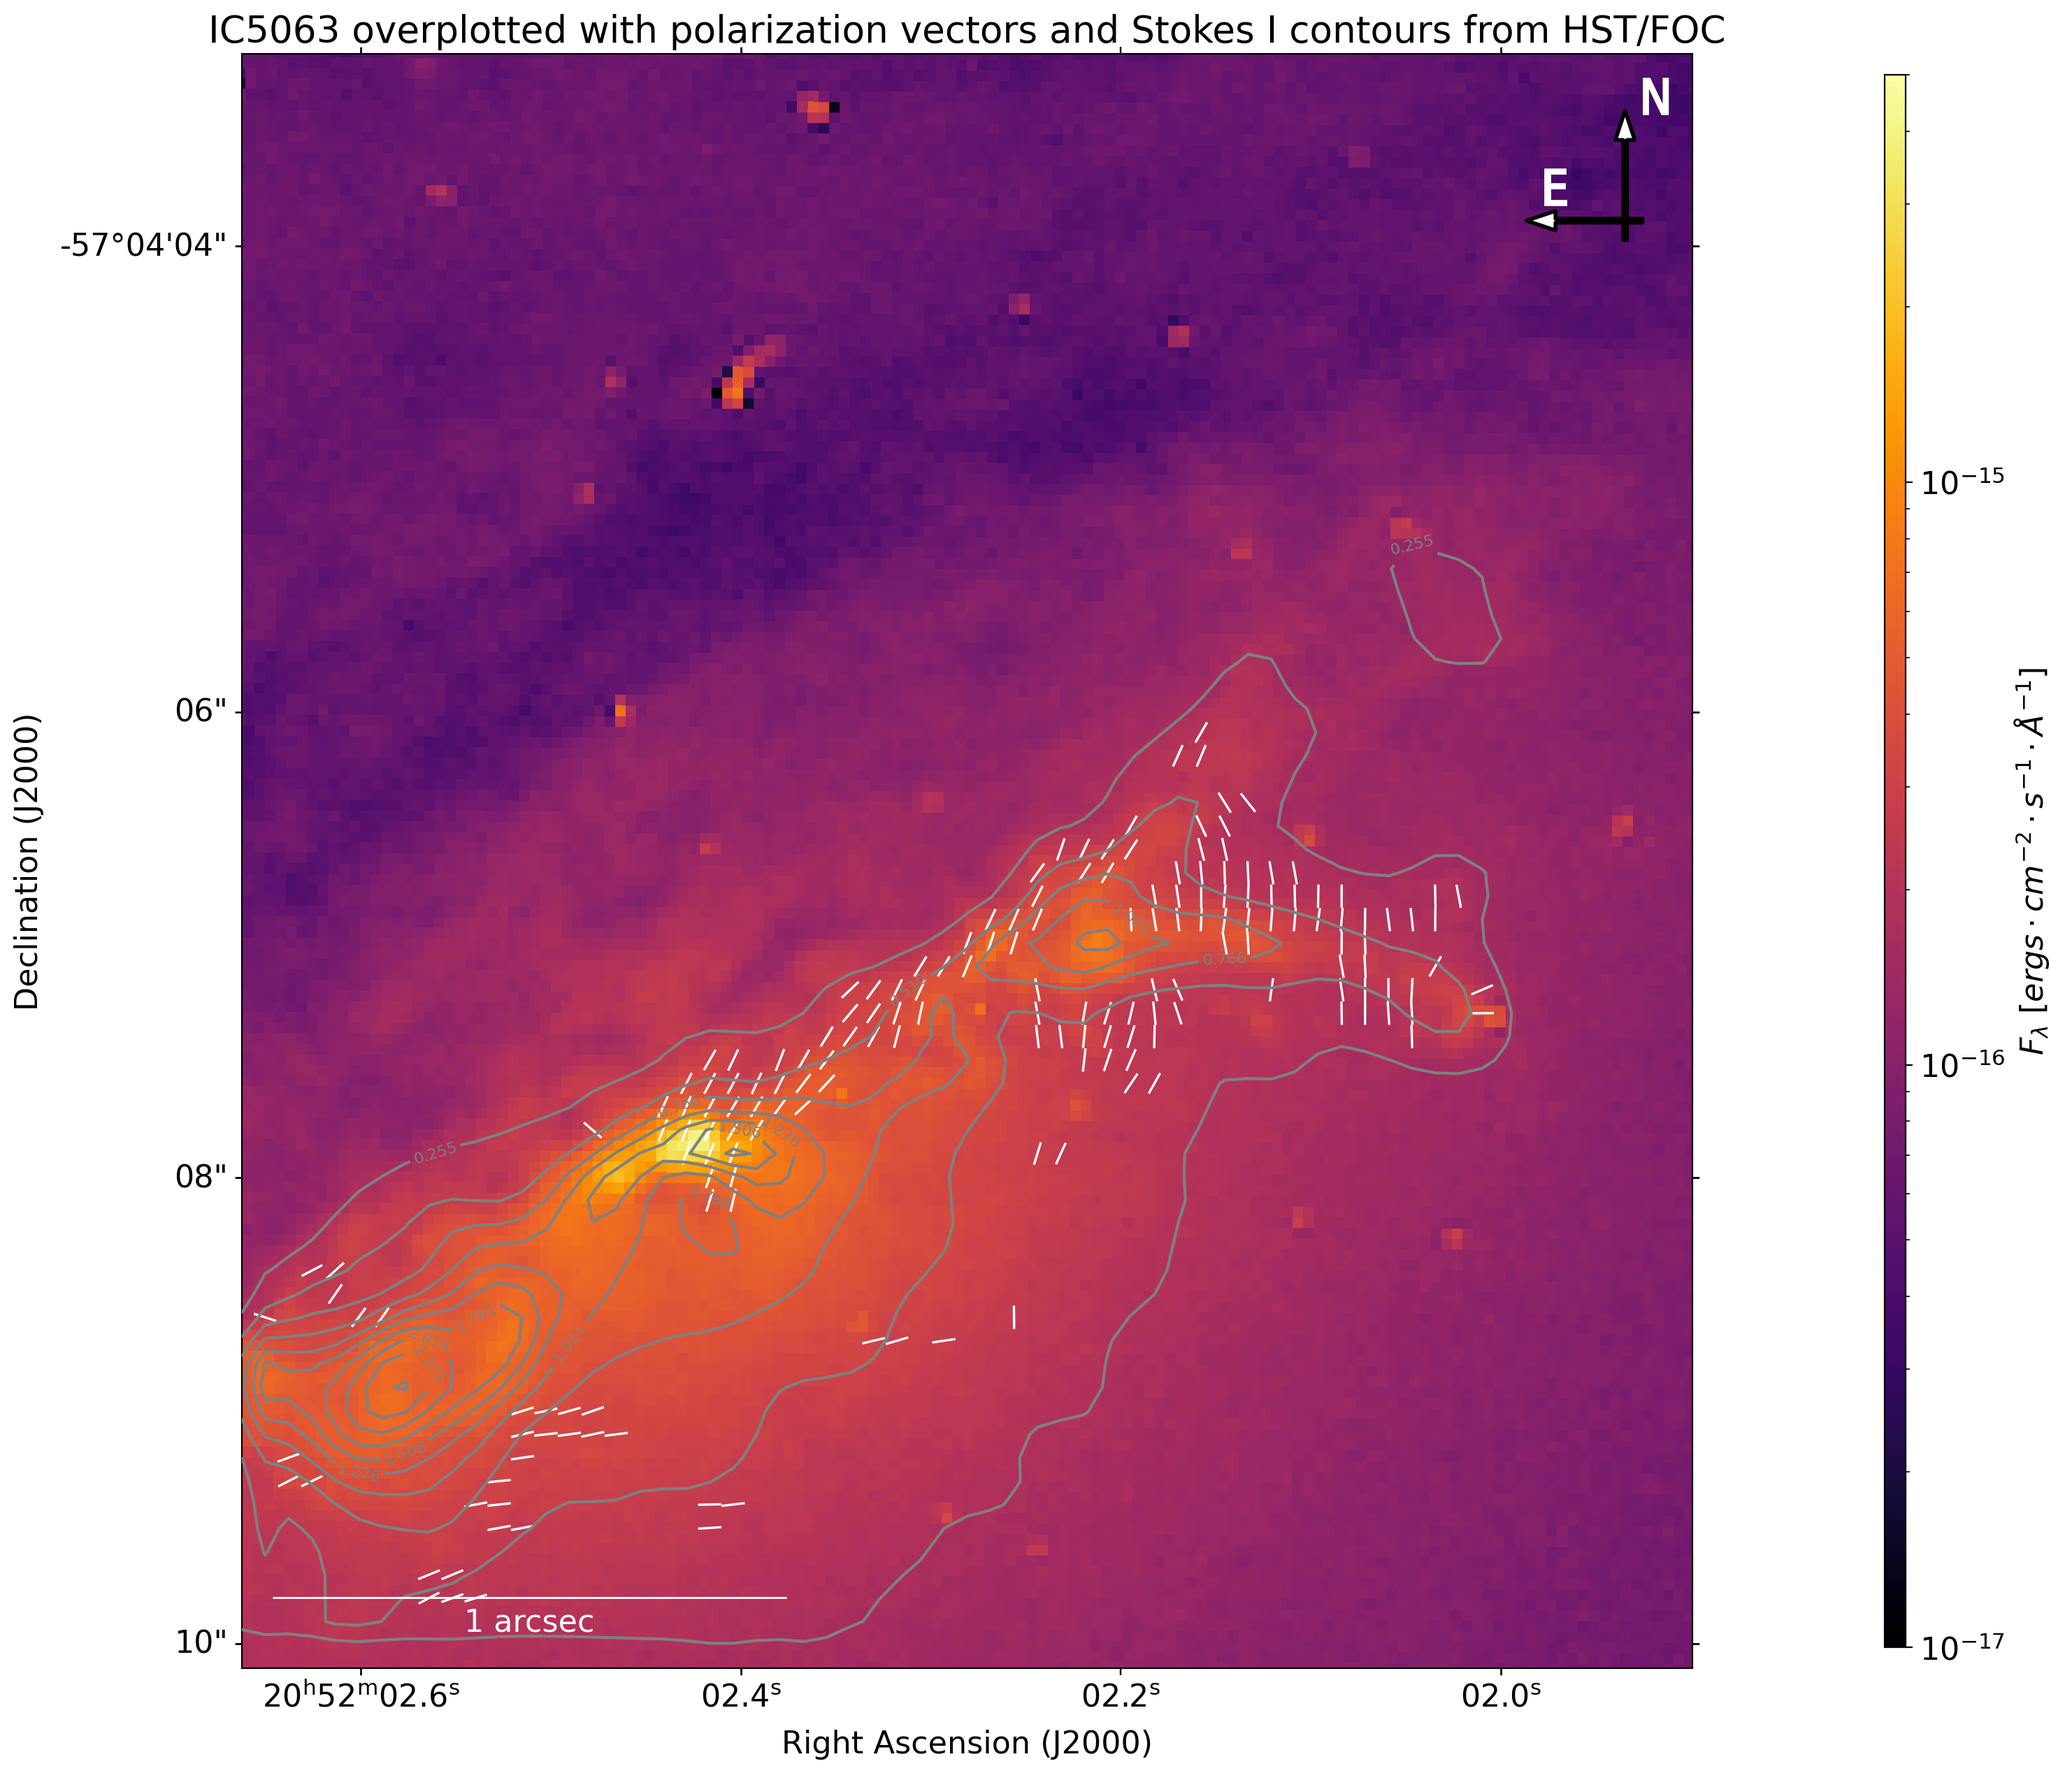
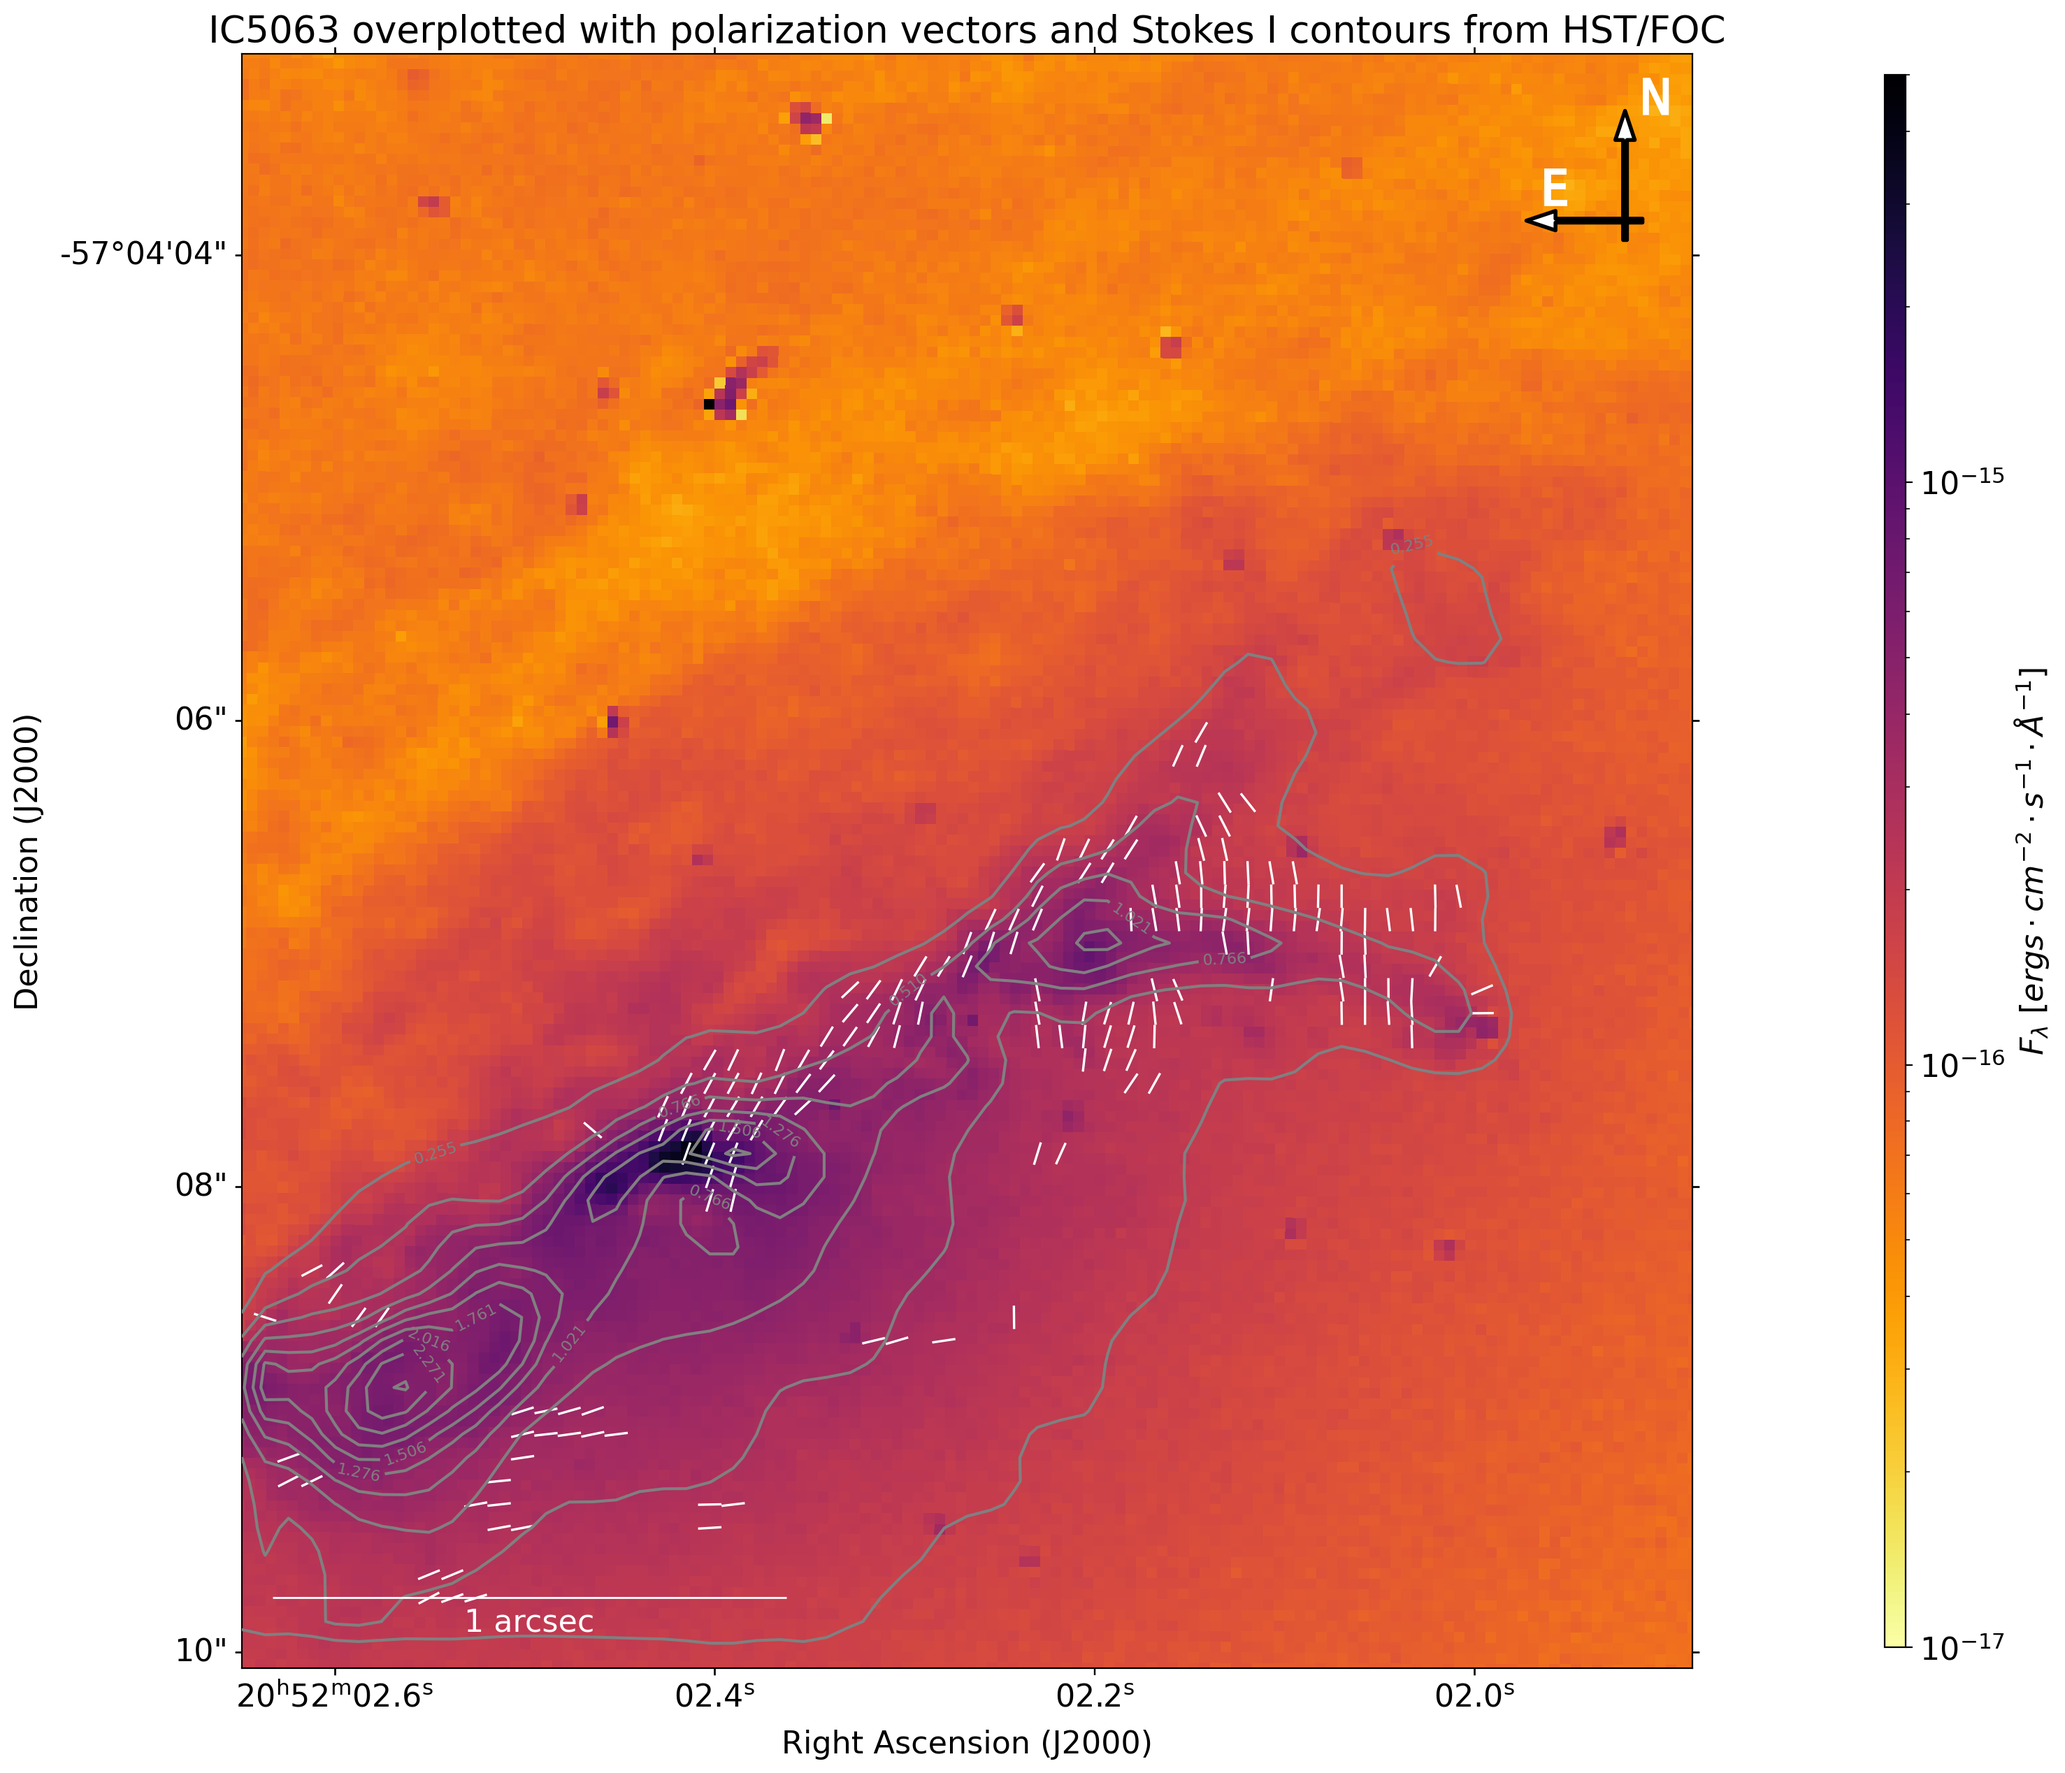
add kwargs handling in overplot

diff --git a/src/lib/plots.py b/src/lib/plots.py
@@ -386,7 +386,7 @@ class align_maps(object):
     """
     Class to interactively align maps with different WCS.
     """
-    def __init__(self, map1, other_map):
+    def __init__(self, map1, other_map, **kwargs):
         self.aligned = False
         self.map = map1
         self.other_map = other_map
@@ -449,7 +449,13 @@ class align_maps(object):
         self.ax2.set_facecolor('k')
 
         vmin, vmax = 0., np.max(other_data[other_data > 0.]*other_convert)
-        im2 = self.ax2.imshow(other_data*other_convert, norm=LogNorm(), aspect='auto', cmap='inferno', alpha=1.)
+        for key, value in [["cmap",[["cmap","inferno"]]], ["norm",[["vmin",vmin],["vmax",vmax]]]]:
+            try:
+                test = kwargs[key]
+            except KeyError:
+                for key_i, val_i in value:
+                    kwargs[key_i] = val_i                    
+        im2 = self.ax2.imshow(other_data*other_convert, aspect='auto', **kwargs)
 
         fontprops = fm.FontProperties(size=16)
         px_size = self.wcs_other.wcs.get_cdelt()[0]*3600.
@@ -662,7 +668,13 @@ class overplot_pol(align_maps):
 
         #Display "other" intensity map
         vmin, vmax = 0., np.max(other_data[other_data > 0.]*other_convert)
-        im = self.ax.imshow(other_data*other_convert, transform=self.ax.get_transform(self.wcs_other), cmap='inferno', alpha=1., **kwargs)
+        for key, value in [["cmap",[["cmap","inferno"]]], ["norm",[["vmin",vmin],["vmax",vmax]]]]:
+            try:
+                test = kwargs[key]
+            except KeyError:
+                for key_i, val_i in value:
+                    kwargs[key_i] = val_i                    
+        im = self.ax.imshow(other_data*other_convert, transform=self.ax.get_transform(self.wcs_other), alpha=1., **kwargs)
         cbar_ax = self.fig2.add_axes([0.95, 0.12, 0.01, 0.75])
         cbar = plt.colorbar(im, cax=cbar_ax, label=r"$F_{\lambda}$ [$ergs \cdot cm^{-2} \cdot s^{-1} \cdot \AA^{-1}$]")
 

diff --git a/src/overplot.py b/src/overplot.py
@@ -41,5 +41,5 @@ E.plot(levels=levels357GHz, SNRp_cut=3.0, SNRi_cut=80.0, savename='../plots/IC50
 F = overplot_pol(Stokes_UV, Stokes_S2)
 F.plot(SNRp_cut=3.0, SNRi_cut=80.0, savename='../plots/IC5063_x3nl030/S2_overplot_forced.png', norm=LogNorm(vmin=5e-20,vmax=5e-18))
 
-G = overplot_pol(Stokes_UV, Stokes_IR)
-G.plot(SNRp_cut=3.0, SNRi_cut=80.0, savename='../plots/IC5063_x3nl030/IR_overplot_forced.png', norm=LogNorm(vmin=1e-17,vmax=5e-15))
+G = overplot_pol(Stokes_UV, Stokes_IR, norm=LogNorm(vmin=1e-17,vmax=5e-15), cmap='inferno_r')
+G.plot(SNRp_cut=3.0, SNRi_cut=80.0, savename='../plots/IC5063_x3nl030/IR_overplot_forced.png', norm=LogNorm(vmin=1e-17,vmax=5e-15), cmap='inferno_r')
